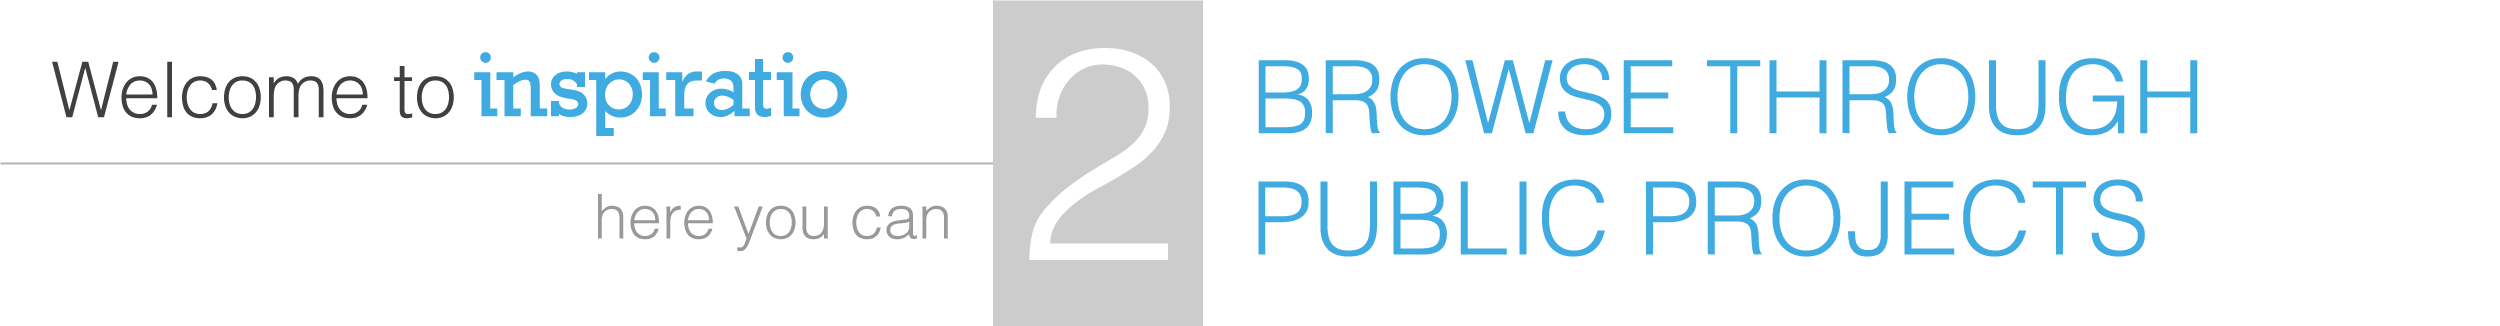
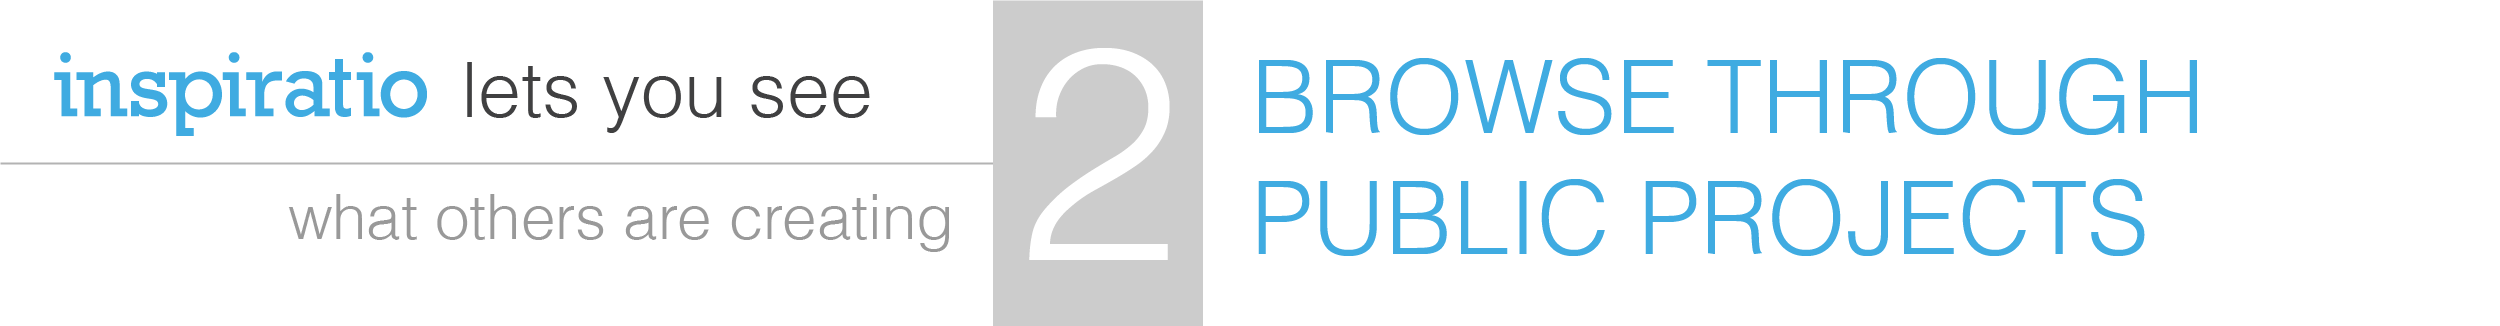
New sliders & explanational video.
Changed sliders so Welcome is not always repeated, added the video so
it's all here.

diff --git a/app/assets/javascripts/jquery.fancybox-media.js b/app/assets/javascripts/jquery.fancybox-media.js
@@ -1,0 +1,196 @@
+/*!
+ * Media helper for fancyBox
+ * version: 1.0.5 (Tue, 23 Oct 2012)
+ * @requires fancyBox v2.0 or later
+ *
+ * Usage:
+ *     $(".fancybox").fancybox({
+ *         helpers : {
+ *             media: true
+ *         }
+ *     });
+ *
+ * Set custom URL parameters:
+ *     $(".fancybox").fancybox({
+ *         helpers : {
+ *             media: {
+ *                 youtube : {
+ *                     params : {
+ *                         autoplay : 0
+ *                     }
+ *                 }
+ *             }
+ *         }
+ *     });
+ *
+ * Or:
+ *     $(".fancybox").fancybox({,
+ *	       helpers : {
+ *             media: true
+ *         },
+ *         youtube : {
+ *             autoplay: 0
+ *         }
+ *     });
+ *
+ *  Supports:
+ *
+ *      Youtube
+ *          http://www.youtube.com/watch?v=opj24KnzrWo
+ *          http://www.youtube.com/embed/opj24KnzrWo
+ *          http://youtu.be/opj24KnzrWo
+ *      Vimeo
+ *          http://vimeo.com/40648169
+ *          http://vimeo.com/channels/staffpicks/38843628
+ *          http://vimeo.com/groups/surrealism/videos/36516384
+ *          http://player.vimeo.com/video/45074303
+ *      Metacafe
+ *          http://www.metacafe.com/watch/7635964/dr_seuss_the_lorax_movie_trailer/
+ *          http://www.metacafe.com/watch/7635964/
+ *      Dailymotion
+ *          http://www.dailymotion.com/video/xoytqh_dr-seuss-the-lorax-premiere_people
+ *      Twitvid
+ *          http://twitvid.com/QY7MD
+ *      Twitpic
+ *          http://twitpic.com/7p93st
+ *      Instagram
+ *          http://instagr.am/p/IejkuUGxQn/
+ *          http://instagram.com/p/IejkuUGxQn/
+ *      Google maps
+ *          http://maps.google.com/maps?q=Eiffel+Tower,+Avenue+Gustave+Eiffel,+Paris,+France&t=h&z=17
+ *          http://maps.google.com/?ll=48.857995,2.294297&spn=0.007666,0.021136&t=m&z=16
+ *          http://maps.google.com/?ll=48.859463,2.292626&spn=0.000965,0.002642&t=m&z=19&layer=c&cbll=48.859524,2.292532&panoid=YJ0lq28OOy3VT2IqIuVY0g&cbp=12,151.58,,0,-15.56
+ */
+(function ($) {
+	"use strict";
+
+	//Shortcut for fancyBox object
+	var F = $.fancybox,
+		format = function( url, rez, params ) {
+			params = params || '';
+
+			if ( $.type( params ) === "object" ) {
+				params = $.param(params, true);
+			}
+
+			$.each(rez, function(key, value) {
+				url = url.replace( '$' + key, value || '' );
+			});
+
+			if (params.length) {
+				url += ( url.indexOf('?') > 0 ? '&' : '?' ) + params;
+			}
+
+			return url;
+		};
+
+	//Add helper object
+	F.helpers.media = {
+		defaults : {
+			youtube : {
+				matcher : /(youtube\.com|youtu\.be)\/(watch\?v=|v\/|u\/|embed\/?)?(videoseries\?list=(.*)|[\w-]{11}|\?listType=(.*)&list=(.*)).*/i,
+				params  : {
+					autoplay    : 1,
+					autohide    : 1,
+					fs          : 1,
+					rel         : 0,
+					hd          : 1,
+					wmode       : 'opaque',
+					enablejsapi : 1
+				},
+				type : 'iframe',
+				url  : '//www.youtube.com/embed/$3'
+			},
+			vimeo : {
+				matcher : /(?:vimeo(?:pro)?.com)\/(?:[^\d]+)?(\d+)(?:.*)/,
+				params  : {
+					autoplay      : 1,
+					hd            : 1,
+					show_title    : 1,
+					show_byline   : 1,
+					show_portrait : 0,
+					fullscreen    : 1
+				},
+				type : 'iframe',
+				url  : '//player.vimeo.com/video/$1'
+			},
+			metacafe : {
+				matcher : /metacafe.com\/(?:watch|fplayer)\/([\w\-]{1,10})/,
+				params  : {
+					autoPlay : 'yes'
+				},
+				type : 'swf',
+				url  : function( rez, params, obj ) {
+					obj.swf.flashVars = 'playerVars=' + $.param( params, true );
+
+					return '//www.metacafe.com/fplayer/' + rez[1] + '/.swf';
+				}
+			},
+			dailymotion : {
+				matcher : /dailymotion.com\/video\/(.*)\/?(.*)/,
+				params  : {
+					additionalInfos : 0,
+					autoStart : 1
+				},
+				type : 'swf',
+				url  : '//www.dailymotion.com/swf/video/$1'
+			},
+			twitvid : {
+				matcher : /twitvid\.com\/([a-zA-Z0-9_\-\?\=]+)/i,
+				params  : {
+					autoplay : 0
+				},
+				type : 'iframe',
+				url  : '//www.twitvid.com/embed.php?guid=$1'
+			},
+			twitpic : {
+				matcher : /twitpic\.com\/(?!(?:place|photos|events)\/)([a-zA-Z0-9\?\=\-]+)/i,
+				type : 'image',
+				url  : '//twitpic.com/show/full/$1/'
+			},
+			instagram : {
+				matcher : /(instagr\.am|instagram\.com)\/p\/([a-zA-Z0-9_\-]+)\/?/i,
+				type : 'image',
+				url  : '//$1/p/$2/media/'
+			},
+			google_maps : {
+				matcher : /maps\.google\.([a-z]{2,3}(\.[a-z]{2})?)\/(\?ll=|maps\?)(.*)/i,
+				type : 'iframe',
+				url  : function( rez ) {
+					return '//maps.google.' + rez[1] + '/' + rez[3] + '' + rez[4] + '&output=' + (rez[4].indexOf('layer=c') > 0 ? 'svembed' : 'embed');
+				}
+			}
+		},
+
+		beforeLoad : function(opts, obj) {
+			var url   = obj.href || '',
+				type  = false,
+				what,
+				item,
+				rez,
+				params;
+
+			for (what in opts) {
+				item = opts[ what ];
+				rez  = url.match( item.matcher );
+
+				if (rez) {
+					type   = item.type;
+					params = $.extend(true, {}, item.params, obj[ what ] || ($.isPlainObject(opts[ what ]) ? opts[ what ].params : null));
+
+					url = $.type( item.url ) === "function" ? item.url.call( this, rez, params, obj ) : format( item.url, rez, params );
+
+					break;
+				}
+			}
+
+			if (type) {
+				obj.href = url;
+				obj.type = type;
+
+				obj.autoHeight = false;
+			}
+		}
+	};
+
+}(jQuery));

diff --git a/app/assets/stylesheets/styles.css b/app/assets/stylesheets/styles.css
@@ -508,6 +508,13 @@ filter: progid:DXImageTransform.Microsoft.gradient( startColorstr='#ffffff', end
 		display: inline-block;
 	}
 
+	#mainCarousel .carousel-inner > .item > .getitvideo img {
+		width: 15%;
+		position: absolute;
+		right: 26%;
+		top: 9%;
+	}
+
 	#main {
 		position: relative;
 		width: 95%;
